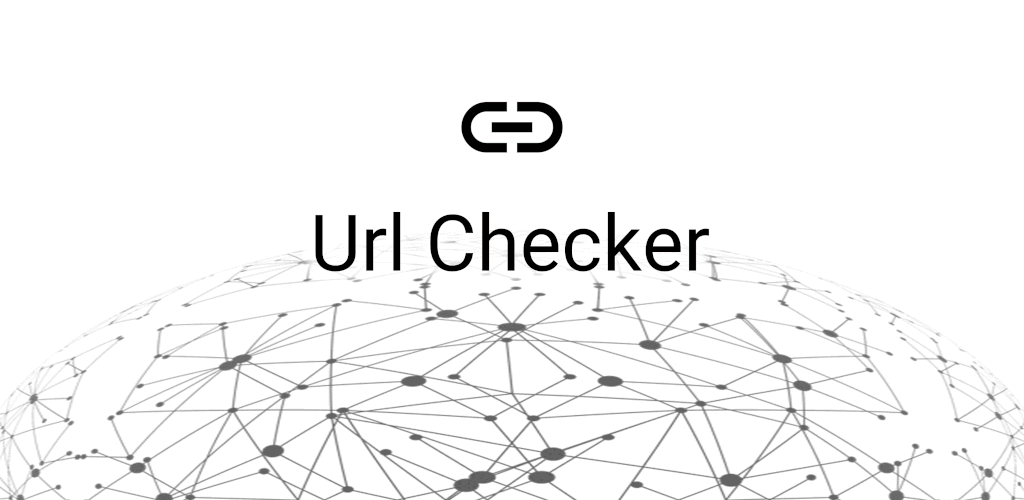
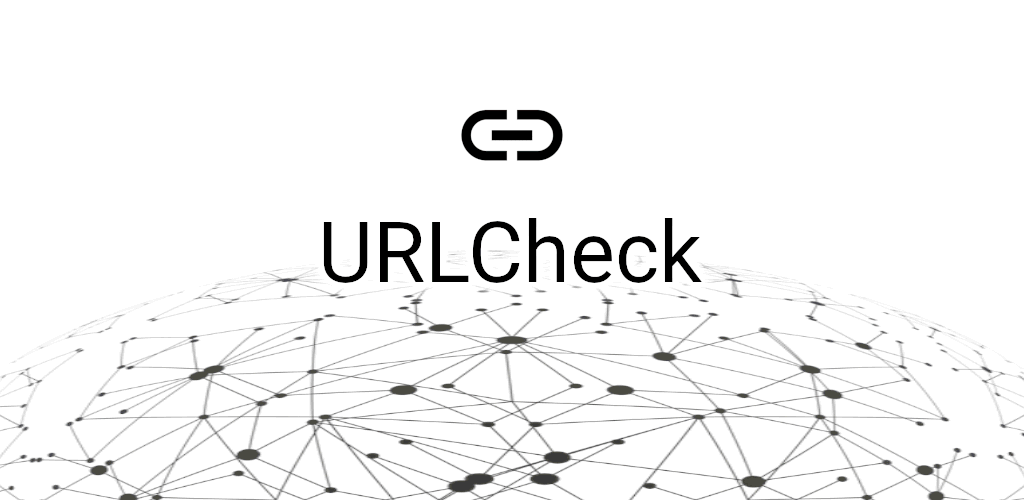
Replace feature image with the new name *URLCheck*

Changed region(s): [[0.0, 0.42, 1.0, 1.0], [0.4375, 0.18, 0.5625, 0.33]]

diff --git a/PRIVACY POLICY.md b/PRIVACY POLICY.md
@@ -17,7 +17,7 @@ All external interactions require user action (pressing a button) unless explici
 Note that URLCheck:
 
 * Relies on The ClearUrl Database (https://docs.clearurls.xyz/1.23.0/specs/rules/) to retrieve information required for the operation of the url cleanup module, only if the user accepts it explicitly. Used directly on the user's device. For this purpose only, processed without sending any data related to the user, their device or their use of these;
-* has the ability, at the user's request, to retrieve the URLs passing through the Url checker by relying on the logging module. This is done without storing any identifiable user information, the data is only stored locally on the user's device;
+* has the ability, at the user's request, to retrieve the URLs passing through the app by relying on the logging module. This is done without storing any identifiable user information, the data is only stored locally on the user's device;
 * allows online url scanning, upon user activation, relying on VirusTotal cloud service. VirusTotal user credentials are stored locally on the user’s device (API key) and are only used for authentication with the official endpoints. Optionally, this service may store user information and data allowing identification; Please refer to VirusTotal's privacy policy (https://support.virustotal.com/hc/en-us/articles/115002168385-Privacy-Policy) for details on how they handle user data.
  
  <!-- URLCheck specific licenses of libraries used in the application can be accessed from About section. - Not useful actually -->
